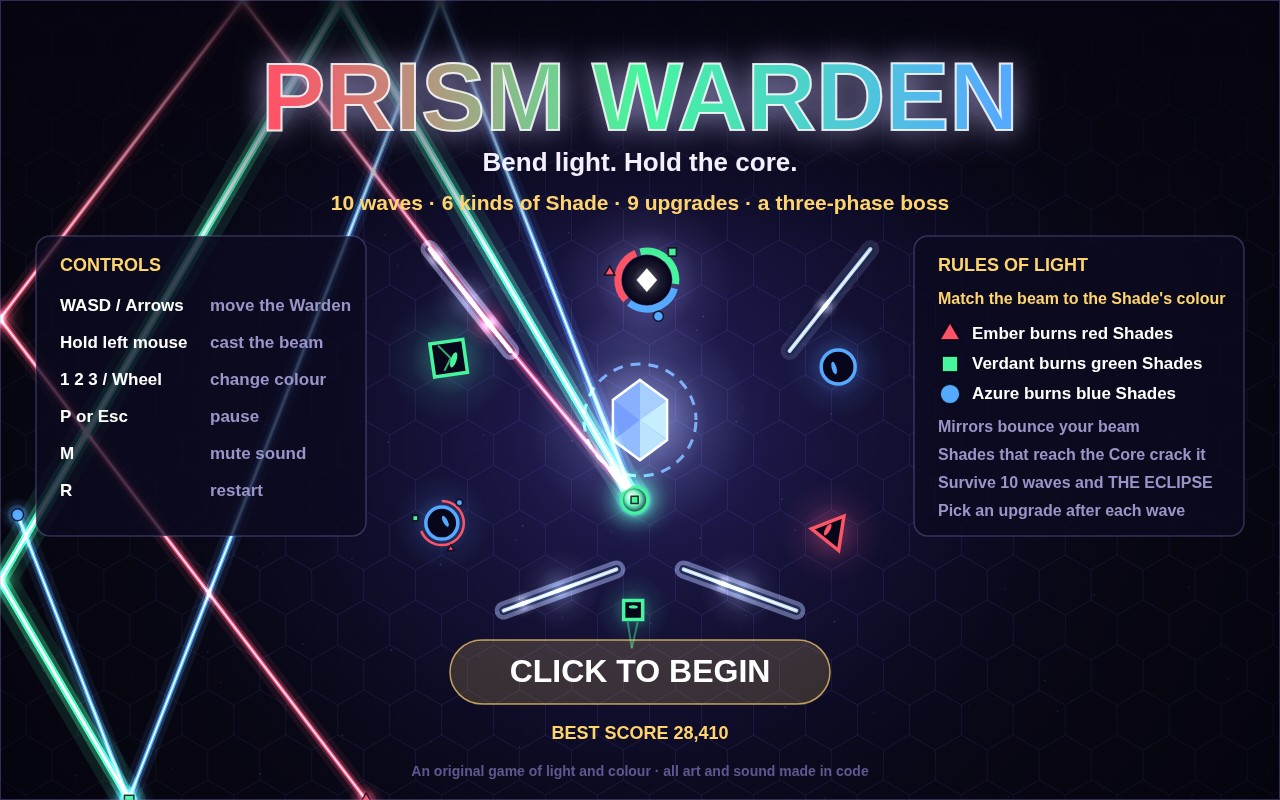
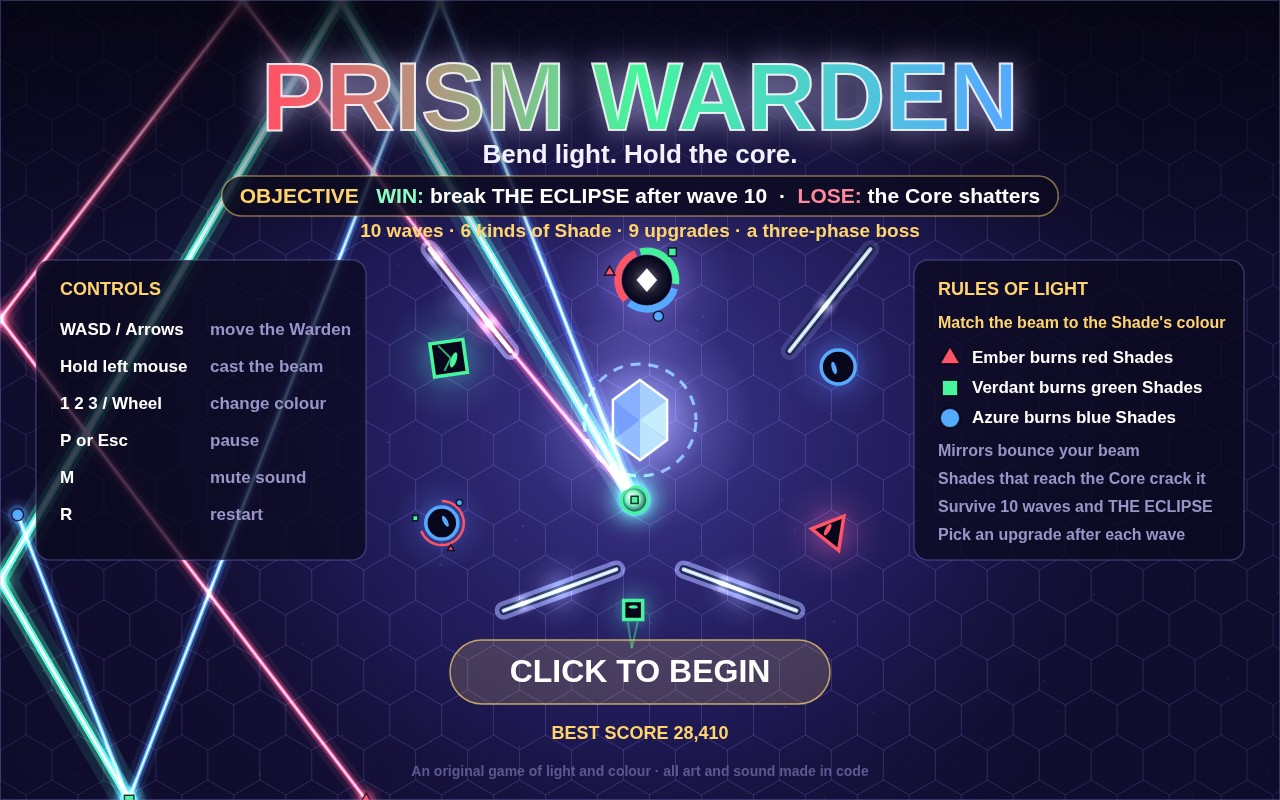
State win and lose in words, brighter arena, calmer cover with a visible own-colour kill
- Play HUD: 'WIN: break THE ECLIPSE after wave 10 · LOSE: the Core shatters' under the wave panel every wave (RUN_CONDITIONS in waves.js, drawWinLoseLine in hud.js); boss bar moves below it
- Title: OBJECTIVE line with the same words; depth line kept; panels nudged down
- Results: 'Lose the Core and the run ends: CORE SHATTERED · press R to try again' under the restart prompt
- Arena: deeper indigo ground, stronger hex grid and centre glow, softer vignette
- Kills flash a bright ring in the Shade's colour; the world records its last kill
- Cover: best of 20 runs, at most two popups, 7-12 Shades in three colours, Core clear, a Shade just died to its own colour in view, split beams striking two or more colours, no Shade under a panel

diff --git a/game/js/shots.js b/game/js/shots.js
@@ -1,9 +1,9 @@
 // Screenshot scenes behind ?shot=title|play|upgrade|boss|results|defeat&seed=n: the real game played forward by the autopilot at fixed steps, frozen on the moment.
-import { CORE_X, CORE_Y, STEP } from './config.js';
+import { CORE_RADIUS, CORE_X, CORE_Y, STEP, WHITE } from './config.js';
 import { autopilotControls, autopilotPick, createPilot } from './autopilot.js';
 import { beginWave, createWorld, stepWorld } from './world.js';
 import { applyUpgrade, dealUpgradeCards } from './upgrades.js';
-import { clearEffects, floaterColours, floatersNear, liveParticleCount, updateEffects } from './particles.js';
+import { clearEffects, floatersNear, liveParticleCount, updateEffects } from './particles.js';
 import { hudPanelRects } from './hud.js';
 import { harmingColour, lightHarmsShade } from './shades.js';
 import { loadBestScore, saveBestScore } from './storage.js';
@@ -22,7 +22,7 @@ const RECORDED_BEST = 28410;
 /** The cover's pilot re-thinks its target every 0.3 s, like a person, so a crowd builds up as it would in a real run. */
 const COVER_REACTION = 0.3;
 /** The cover weighs the best moment across this many runs (seed, seed + 101, ...) rather than settling for the first. */
-const COVER_SEEDS = [0, 1, 2, 3, 4, 5, 6, 7, 8, 9];
+const COVER_SEEDS = Array.from({ length: 20 }, (_, n) => n);
 
 /**
  * Plays a run with the autopilot until `stop(world, step)` says so (checked once a step), taking upgrades on the way.
@@ -105,18 +105,28 @@ function waveDrama(world) {
   if (world.wave < 7 || world.wave > 8 || world.state !== 'fight' || world.banner) return -1;
   const warden = world.warden;
   if (world.core.hp < world.core.maxHp * 0.6 || warden.y < 180 || warden.y > 630 || warden.x < 340 || warden.x > 1010) return -1;
-  if (floatersNear(CORE_X, CORE_Y, 90) > 0 || floatersNear(CORE_X, CORE_Y, 2000) < 2 || !beamsReadable(world, 150, 120, 3)) return -1;
+  const popups = floatersNear(CORE_X, CORE_Y, 2000);
+  if (floatersNear(CORE_X, CORE_Y, 90) > 0 || popups < 1 || popups > 2 || !beamsReadable(world, 150, 120, 3)) return -1;
+  if (world.shades.some((s) => !s.dead && Math.hypot(s.x - CORE_X, s.y - CORE_Y) < CORE_RADIUS + s.r + 50)) return -1;
+  if (!justDiedToOwnColour(world)) return -1;
   const main = beamLengths(world.beams[0]);
   const facts = frameFacts(world);
   const recentLog = world.log.filter((entry) => world.time - entry.time < 3).length;
-  if (world.combo < 10 || facts.onScreen.length < 7 || facts.colours < 3) return -1;
+  if (world.combo < 10 || facts.onScreen.length < 7 || facts.onScreen.length > 12 || facts.colours < 3) return -1;
   const incoming = incomingByKind(world);
-  const stillToCome = incoming.reduce((sum, row) => sum + row.count, 0);
   if (incoming.length < 3 || recentLog < 2) return -1;
   const struck = prismStrikes(world);
-  if (struck.beams < 2 || struck.colours < 2 || floaterColours().size < 2 || shadeUnderHud(world)) return -1;
-  return Math.min(main.total, 700) / 70 + facts.onScreen.length * 2 + facts.kinds * 3 + Math.min(facts.bounces, 5) * 3 + facts.hits * 2
-    + Math.min(world.combo, 40) / 2 + liveParticleCount() / 60 + recentLog * 2 + incoming.length * 3 + Math.min(stillToCome, 12) / 2 + struck.colours * 6 + struck.beams * 3;
+  if (struck.beams < 2 || struck.colours < 2 || shadeUnderHud(world)) return -1;
+  return Math.min(main.total, 700) / 70 + facts.onScreen.length + facts.kinds * 3 + Math.min(facts.bounces, 4) * 3
+    + Math.min(world.combo, 40) / 4 + recentLog * 2 + incoming.length * 3 + struck.colours * 8 + struck.beams * 4;
+}
+
+/** The colour rule in action: a Shade died to light of its own colour a moment ago, its burst in clear view. */
+function justDiedToOwnColour(world) {
+  const kill = world.lastKill;
+  if (!kill || world.time - kill.time > 0.3 || kill.colour !== kill.beamColour || kill.colour === WHITE) return false;
+  if (kill.x < 40 || kill.x > 1240 || kill.y < 40 || kill.y > 760) return false;
+  return !hudPanelRects(world).some((r) => kill.x > r.x - 30 && kill.x < r.x + r.w + 30 && kill.y > r.y - 30 && kill.y < r.y + r.h + 30);
 }
 
 /**

diff --git a/game/js/hud.js b/game/js/hud.js
@@ -3,7 +3,7 @@
 import { ARENA_H, ARENA_W, COMBO_TUNING, FONT, LIGHTS, PALETTE, TOTAL_WAVES } from './config.js';
 import { drawLightGlyph, drawShadeIcon, drawUpgradeIcon, traceShape } from './icons.js';
 import { upgradeLabel, UPGRADES } from './upgrades.js';
-import { incomingByKind, waveGoalText, waveProgress, WAVE_PLAN } from './waves.js';
+import { incomingByKind, RUN_CONDITIONS, waveGoalText, waveProgress, WAVE_PLAN } from './waves.js';
 import { comboMultiplier } from './world.js';
 import { eclipseTitle } from './boss.js';
 import { SHADE_KINDS } from './shades.js';
@@ -67,6 +67,7 @@ export function hudPanelRects(world) {
   const rects = [
     { x: 16, y: 14, w: 320, h: 90 },
     { x: ARENA_W / 2 - 180, y: 14, w: 360, h: 90 },
+    { x: ARENA_W / 2 - 290, y: 108, w: 580, h: 36 },
     { x: ARENA_W - 316, y: 14, w: 300, h: 80 },
     { x: ARENA_W / 2 - 300, y: ARENA_H - 107, w: 600, h: 30 },
     { x: ARENA_W / 2 - 238, y: ARENA_H - 62, w: 476, h: 46 },
@@ -82,7 +83,7 @@ export function hudPanelRects(world) {
     const rows = Math.ceil(owned / 3);
     rects.push({ x: 16, y: ARENA_H - 46 - (rows - 1) * 34 - 22, w: 3 * 122, h: (rows - 1) * 34 + 52 });
   }
-  if (world.boss && !world.boss.dead) rects.push({ x: ARENA_W / 2 - 250, y: 112, w: 500, h: 46 });
+  if (world.boss && !world.boss.dead) rects.push({ x: ARENA_W / 2 - 250, y: 150, w: 500, h: 46 });
   return rects;
 }
 
@@ -120,16 +121,39 @@ function drawWavePanel(ctx, world) {
   text(ctx, plan.title.toUpperCase(), cx, 56, 14, PALETTE.dim, 'center', 700);
   bar(ctx, cx - 155, 65, 310, 6, waveProgress(world), PALETTE.gold);
   text(ctx, waveGoalText(world.wave), cx, 87, 16, PALETTE.gold, 'center', 900);
+  drawWinLoseLine(ctx, cx, 126, 17, true);
   const boss = world.boss;
   if (boss && !boss.dead) {
-    drawPanel(ctx, cx - 250, 112, 500, 46, 10, 'rgba(10,6,24,0.85)', `rgba(${LIGHTS[boss.colour].rgb},0.6)`);
-    text(ctx, eclipseTitle(boss), cx, 126, 14, PALETTE.ink, 'center');
+    drawPanel(ctx, cx - 250, 150, 500, 46, 10, 'rgba(10,6,24,0.85)', `rgba(${LIGHTS[boss.colour].rgb},0.6)`);
+    text(ctx, eclipseTitle(boss), cx, 164, 14, PALETTE.ink, 'center');
     for (let i = 0; i < 3; i += 1) {
       const x = cx - 234 + i * 158;
       const ratio = i < boss.phase ? 0 : i > boss.phase ? 1 : boss.hp / boss.maxHp;
-      bar(ctx, x, 140, 152, 10, ratio, i === boss.phase ? LIGHTS[boss.colour].hex : 'rgba(236,233,255,0.5)');
+      bar(ctx, x, 178, 152, 10, ratio, i === boss.phase ? LIGHTS[boss.colour].hex : 'rgba(236,233,255,0.5)');
     }
   }
+}
+
+/** Width of the WIN / LOSE line at `size` (with an optional lead-in), for layout. */
+function winLoseWidth(ctx, size, prefix) {
+  return textWidth(ctx, prefix, size, 900) + textWidth(ctx, 'WIN: ', size, 900) + textWidth(ctx, `${RUN_CONDITIONS.win}  ·  `, size, 700)
+    + textWidth(ctx, 'LOSE: ', size, 900) + textWidth(ctx, RUN_CONDITIONS.lose, size, 700);
+}
+
+/** "WIN: break THE ECLIPSE after wave 10 · LOSE: the Core shatters", centred on (cx, y), optionally on a pill and after a gold lead-in. */
+export function drawWinLoseLine(ctx, cx, y, size, onPill = false, prefix = '') {
+  const width = winLoseWidth(ctx, size, prefix);
+  if (onPill) drawPanel(ctx, cx - width / 2 - 18, y - size * 0.95, width + 36, size * 1.9, size, 'rgba(12,10,32,0.82)', 'rgba(255,212,110,0.5)');
+  let x = cx - width / 2;
+  const part = (value, colour, weight) => {
+    text(ctx, value, x, y + 1, size, colour, 'left', weight);
+    x += textWidth(ctx, value, size, weight);
+  };
+  if (prefix) part(prefix, PALETTE.gold, 900);
+  part('WIN: ', '#8dffc4', 900);
+  part(`${RUN_CONDITIONS.win}  ·  `, '#ffffff', 700);
+  part('LOSE: ', '#ff8a9a', 900);
+  part(RUN_CONDITIONS.lose, '#ffffff', 700);
 }
 
 function drawScorePanel(ctx, world, best) {

diff --git a/game/js/screens.js b/game/js/screens.js
@@ -1,7 +1,7 @@
 // The menu screens: the title (with a live beam show), the upgrade choice of three cards, the results (VICTORY / CORE SHATTERED) and pause.
 import { ARENA_H, ARENA_W, CORE_X, CORE_Y, FONT, LIGHTS, PALETTE, TAU, TOTAL_WAVES } from './config.js';
 import { drawLightGlyph, drawUpgradeIcon } from './icons.js';
-import { drawPanel } from './hud.js';
+import { drawPanel, drawWinLoseLine } from './hud.js';
 import { drawEclipse, drawWorld } from './render.js';
 import { makeMirror } from './arena.js';
 import { castPrismBeams } from './beam.js';
@@ -120,10 +120,13 @@ export function drawTitle(ctx, scene, best, time) {
   ctx.strokeStyle = 'rgba(255,255,255,0.85)';
   ctx.strokeText('PRISM WARDEN', ARENA_W / 2, 104);
   ctx.restore();
-  text(ctx, 'Bend light. Hold the core.', ARENA_W / 2, 164, 26, '#f4f0ff', 'center', 600);
+  text(ctx, 'Bend light. Hold the core.', ARENA_W / 2, 156, 26, '#f4f0ff', 'center', 600);
+  drawObjectiveLine(ctx, ARENA_W / 2, 196);
   const shadeKinds = Object.keys(SHADE_KINDS).filter((kind) => kind !== 'eclipse').length;
   const phases = ['one', 'two', 'three', 'four'][ECLIPSE_PHASES.length - 1] ?? ECLIPSE_PHASES.length;
-  text(ctx, `${TOTAL_WAVES} waves · ${shadeKinds} kinds of Shade · ${UPGRADES.length} upgrades · a ${phases}-phase boss`, ARENA_W / 2, 204, 21, PALETTE.gold, 'center', 800);
+  text(ctx, `${TOTAL_WAVES} waves · ${shadeKinds} kinds of Shade · ${UPGRADES.length} upgrades · a ${phases}-phase boss`, ARENA_W / 2, 232, 19, PALETTE.gold, 'center', 800);
+  ctx.save();
+  ctx.translate(0, 24);
 
   drawPanel(ctx, 36, 236, 330, 300, 14);
   text(ctx, 'CONTROLS', 60, 266, 18, PALETTE.gold, 'left');
@@ -152,12 +155,18 @@ export function drawTitle(ctx, scene, best, time) {
   });
   const notes = ['Mirrors bounce your beam', 'Shades that reach the Core crack it', `Survive ${TOTAL_WAVES} waves and THE ECLIPSE`, 'Pick an upgrade after each wave'];
   notes.forEach((note, index) => text(ctx, note, ARENA_W - 342, 428 + index * 28, 16, PALETTE.dim, 'left', 600));
+  ctx.restore();
 
   const pulse = 0.6 + 0.4 * Math.sin(time * 3.5);
   drawPanel(ctx, ARENA_W / 2 - 190, 640, 380, 64, 32, `rgba(255,212,110,${0.12 + 0.12 * pulse})`, `rgba(255,212,110,${0.5 + 0.5 * pulse})`);
   text(ctx, 'CLICK TO BEGIN', ARENA_W / 2, 673, 32, '#ffffff', 'center', 900);
   text(ctx, best > 0 ? `BEST SCORE ${best.toLocaleString('en-US')}` : 'NO BEST SCORE YET · SET ONE', ARENA_W / 2, 734, 18, PALETTE.gold, 'center', 800);
   text(ctx, 'An original game of light and colour · all art and sound made in code', ARENA_W / 2, 772, 14, PALETTE.faint, 'center', 600);
+}
+
+/** "OBJECTIVE" followed by the same WIN / LOSE line the play HUD shows. */
+function drawObjectiveLine(ctx, cx, y) {
+  drawWinLoseLine(ctx, cx, y, 21, true, 'OBJECTIVE   ');
 }
 
 // ----- Upgrade choice ----------------------------------------------------------------------------------------
@@ -344,7 +353,8 @@ export function drawResults(ctx, world, best, isNewBest, previousBest, time) {
   const pulse = 0.6 + 0.4 * Math.sin(time * 3.5);
   drawPanel(ctx, ARENA_W / 2 - 250, 628, 500, 60, 30, `rgba(255,212,110,${0.1 + 0.12 * pulse})`, `rgba(255,212,110,${0.5 + 0.5 * pulse})`);
   text(ctx, 'Press R or click to play again', ARENA_W / 2, 659, 26, '#ffffff', 'center', 800);
-  text(ctx, 'Esc returns to the title', ARENA_W / 2, 716, 16, PALETTE.dim, 'center', 600);
+  text(ctx, 'Esc returns to the title', ARENA_W / 2, 712, 16, PALETTE.dim, 'center', 600);
+  if (won) text(ctx, `Lose the Core and the run ends: CORE SHATTERED · press R to try again`, ARENA_W / 2, 744, 16, '#ff9aa8', 'center', 700);
 }
 
 /** The beaten boss under VICTORY: THE ECLIPSE drawn small by its own renderer, dimmed and cracked. */

diff --git a/game/js/particles.js b/game/js/particles.js
@@ -5,13 +5,16 @@ import { fxRandom, fxRange } from './random.js';
 const MAX_PARTICLES = 1800;
 const MAX_FLOATERS = 40;
 const MAX_ARCS = 24;
+const MAX_RINGS = 24;
 
 const particles = Array.from({ length: MAX_PARTICLES }, () => ({ live: false, x: 0, y: 0, vx: 0, vy: 0, life: 0, max: 1, size: 2, rgb: '255,255,255', drag: 0.9 }));
 const floaters = Array.from({ length: MAX_FLOATERS }, () => ({ live: false, x: 0, y: 0, text: '', life: 0, max: 1, colour: '#fff', size: 18 }));
 const arcs = Array.from({ length: MAX_ARCS }, () => ({ live: false, points: [], life: 0, max: 0.3, rgb: '255,255,255' }));
 let nextParticle = 0;
 let nextFloater = 0;
+const rings = Array.from({ length: MAX_RINGS }, () => ({ live: false, x: 0, y: 0, life: 0, max: 0.4, radius: 40, rgb: '255,255,255' }));
 let nextArc = 0;
+let nextRing = 0;
 
 export function spawnParticle(x, y, vx, vy, life, size, rgb, drag = 0.92) {
   const p = particles[nextParticle];
@@ -66,6 +69,18 @@ export function chainArc(x1, y1, x2, y2, rgb) {
   }
 }
 
+/** A kill flash: a bright ring in the Shade's colour that swells and fades around where it died. */
+export function killRing(x, y, rgb, radius = 46) {
+  const ring = rings[nextRing];
+  nextRing = (nextRing + 1) % MAX_RINGS;
+  ring.live = true;
+  ring.x = x;
+  ring.y = y;
+  ring.life = ring.max;
+  ring.radius = radius;
+  ring.rgb = rgb;
+}
+
 /** Rising score or label text; a new one stacks above any it would overlap, so popups never cover each other. */
 export function floatText(x, y, text, colour, size = 18, life = 0.9) {
   const halfWidth = text.length * size * 0.3;
@@ -106,6 +121,11 @@ export function updateEffects(dt) {
     f.y -= 38 * dt;
     if (f.life <= 0) f.live = false;
   }
+  for (const ring of rings) {
+    if (!ring.live) continue;
+    ring.life -= dt;
+    if (ring.life <= 0) ring.live = false;
+  }
   for (const arc of arcs) {
     if (!arc.live) continue;
     arc.life -= dt;
@@ -129,6 +149,7 @@ export function clearEffects() {
   for (const p of particles) p.live = false;
   for (const f of floaters) f.live = false;
   for (const arc of arcs) arc.live = false;
+  for (const ring of rings) ring.live = false;
 }
 
 export function liveParticleCount() {
@@ -147,6 +168,17 @@ export function drawParticles(ctx) {
     const s = p.size * (0.4 + 0.6 * k);
     ctx.fillStyle = `rgba(${p.rgb},${(k * 0.9).toFixed(2)})`;
     ctx.fillRect(p.x - s / 2, p.y - s / 2, s, s);
+  }
+  for (const ring of rings) {
+    if (!ring.live) continue;
+    const k = ring.life / ring.max;
+    ctx.beginPath();
+    ctx.arc(ring.x, ring.y, ring.radius * (1.15 - k), 0, TAU);
+    ctx.strokeStyle = `rgba(${ring.rgb},${(0.9 * k).toFixed(2)})`;
+    ctx.lineWidth = 3 + 7 * k;
+    ctx.stroke();
+    ctx.fillStyle = `rgba(255,255,255,${(0.35 * k * k).toFixed(2)})`;
+    ctx.fill();
   }
   ctx.lineJoin = 'round';
   for (const arc of arcs) {

diff --git a/game/js/world.js b/game/js/world.js
@@ -6,7 +6,7 @@ import { createShade, lightHarmsShade, moveShades, SHADE_KINDS } from './shades.
 import { damageEclipsePhase, updateEclipse } from './boss.js';
 import { startWave, updateDirector, isWaveCleared, WAVE_PLAN } from './waves.js';
 import { beamStats, chainDamage, createUpgradeLevels, harvestChance } from './upgrades.js';
-import { burst, chainArc, floatText, sparks } from './particles.js';
+import { burst, chainArc, floatText, killRing, sparks } from './particles.js';
 import { fxRandom, seedRandom, simRandom } from './random.js';
 
 /** A fresh run on wave 1. `seed` makes the whole run (spawns, mirrors, cards) repeatable. */
@@ -40,6 +40,7 @@ export function createWorld(seed) {
     banner: null,
     events: [],
     log: [],
+    lastKill: null,
   };
   beginWave(world, 1);
   return world;
@@ -270,6 +271,8 @@ function killShade(world, shade, colour, depth) {
   floatText(shade.x, shade.y - shade.r - 8, `+${points}`, LIGHTS[colour].hex, 15 + Math.min(multiplier, 6) * 2);
   burst(shade.x, shade.y, light.rgb, 14 + shade.r, 240, 0.75, 3.5);
   burst(shade.x, shade.y, '255,255,255', 6, 150, 0.35, 2.5);
+  killRing(shade.x, shade.y, light.rgb, shade.r * 2.6);
+  world.lastKill = { x: shade.x, y: shade.y, colour: shade.colour, beamColour: colour, time: world.time };
   world.events.push({ type: 'kill', colour, combo: world.combo });
   if (depth > 0) logEvent(world, `+${points} CHAIN x${depth + 1}`, LIGHTS[colour].hex);
   else if (shade.kind === 'bulwark' || shade.kind === 'prismling' || shade.kind === 'splitter') {

diff --git a/game/js/render.js b/game/js/render.js
@@ -33,7 +33,7 @@ export function drawGlow(ctx, x, y, radius, rgb, alpha = 1) {
   ctx.globalAlpha = previous;
 }
 
-/** Pre-renders the ground (indigo gradient, faint hex grid, vignette) at the screen's pixel ratio. */
+/** Pre-renders the ground (deep indigo with a lit centre, hex grid, soft vignette) at the screen's pixel ratio. */
 export function buildBackdrop(pixelRatio) {
   backdrop = document.createElement('canvas');
   backdrop.width = Math.round(ARENA_W * pixelRatio);
@@ -43,8 +43,8 @@ export function buildBackdrop(pixelRatio) {
   g.fillStyle = PALETTE.ground;
   g.fillRect(0, 0, ARENA_W, ARENA_H);
   const halo = g.createRadialGradient(CORE_X, CORE_Y, 20, CORE_X, CORE_Y, 620);
-  halo.addColorStop(0, 'rgba(60,52,150,0.55)');
-  halo.addColorStop(0.5, 'rgba(30,24,90,0.25)');
+  halo.addColorStop(0, 'rgba(92,80,200,0.6)');
+  halo.addColorStop(0.5, 'rgba(52,44,140,0.32)');
   halo.addColorStop(1, 'rgba(0,0,0,0)');
   g.fillStyle = halo;
   g.fillRect(0, 0, ARENA_W, ARENA_H);
@@ -78,7 +78,7 @@ export function buildBackdrop(pixelRatio) {
   }
   const vignette = g.createRadialGradient(ARENA_W / 2, ARENA_H / 2, 300, ARENA_W / 2, ARENA_H / 2, 820);
   vignette.addColorStop(0, 'rgba(0,0,0,0)');
-  vignette.addColorStop(1, 'rgba(0,0,6,0.6)');
+  vignette.addColorStop(1, 'rgba(4,2,16,0.38)');
   g.fillStyle = vignette;
   g.fillRect(0, 0, ARENA_W, ARENA_H);
 }

diff --git a/game/js/waves.js b/game/js/waves.js
@@ -28,6 +28,9 @@ export const WAVE_PLAN = [
     hint: 'Match the Eclipse\'s colour to break its phases. Survive all three.' },
 ];
 
+/** How a run is won and lost, in the words the HUD, the title and the results use. */
+export const RUN_CONDITIONS = { win: `break THE ECLIPSE after wave ${TOTAL_WAVES}`, lose: 'the Core shatters' };
+
 /** The run's goal as the HUD states it: hold the waves, then break THE ECLIPSE on the last one to win. */
 export function waveGoalText(wave) {
   const left = TOTAL_WAVES - wave;

diff --git a/game/js/config.js b/game/js/config.js
@@ -25,9 +25,9 @@ export const LIGHTS = [
 ];
 
 export const PALETTE = {
-  ground: '#0a0918',
+  ground: '#141039',
   groundGlow: '#17143a',
-  grid: 'rgba(130,120,255,0.075)',
+  grid: 'rgba(150,140,255,0.14)',
   ink: '#ece9ff',
   dim: '#9a94c8',
   faint: '#5d5890',

diff --git a/README.md b/README.md
@@ -20,7 +20,7 @@ Survive ten waves. Each wave brings something new: Drifters, zig-zagging Darters
 | M | mute / unmute |
 | R | restart (on the results screen, a click works too) |
 
-The HUD teaches as you play. The Core panel states the stakes ("0 = RUN LOST"), and the wave panel names the goal ("HOLD 3 MORE WAVES · THEN THE ECLIPSE"). An INCOMING panel lists each Shade kind the wave still has to send, with its colours and count. A rule strip by the colour bar says "MATCH THE BEAM TO THE SHADE". Your build shows by name and level ("Prism II"), and a short event log reports chains, broken shells and Core cracks. Each upgrade card also says how it combines with what you already own. When wave 9 is cleared, the upgrade screen previews THE ECLIPSE and names its three phases. The victory screen shows the boss cracked beneath the title. Score popups stack so they never cover each other.
+The HUD teaches as you play. One line under the wave panel states both conditions: "WIN: break THE ECLIPSE after wave 10 · LOSE: the Core shatters". The title repeats it as the OBJECTIVE, and the victory screen names the lose path too. The Core panel states the stakes ("0 = RUN LOST"), and the wave panel names the goal ("HOLD 3 MORE WAVES · THEN THE ECLIPSE"). An INCOMING panel lists each Shade kind the wave still has to send, with its colours and count. A rule strip by the colour bar says "MATCH THE BEAM TO THE SHADE". Your build shows by name and level ("Prism II"), and a short event log reports chains, broken shells and Core cracks. Each upgrade card also says how it combines with what you already own. When wave 9 is cleared, the upgrade screen previews THE ECLIPSE and names its three phases. The victory screen shows the boss cracked beneath the title. Score popups stack so they never cover each other, and every kill flashes a bright ring in the Shade's colour.
 
 Every colour also has its own shape (on Shade shells, beam tips, the reticle and the HUD), so the game can be played without telling red from green. All art is drawn in code with Canvas 2D and additive light. All sound is synthesized with WebAudio (beam hum, hits, kills, wrong colour, Core cracks, waves, cards, boss phases, victory, defeat, plus a quiet generative music loop). Nothing is loaded from the network.
 
